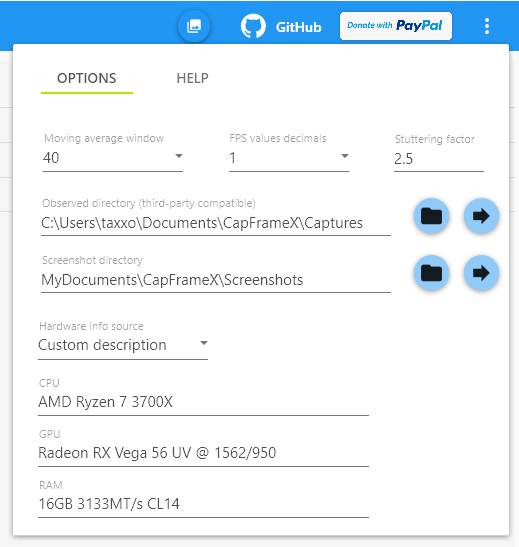
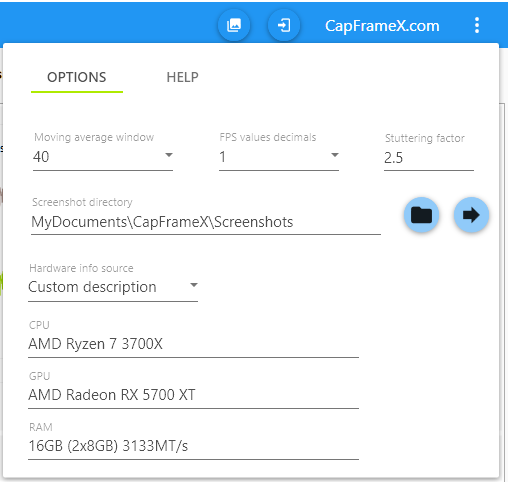
edited README and images

diff --git a/README.md b/README.md
@@ -28,12 +28,15 @@ Download link: https://github.com/DevTechProfile/CapFrameX/releases
 ![Screenshot](Images/06_comparison_bar.png)
 ![Screenshot](Images/07_comparison_graph.png)
 
-# Synchronization (G-Sync, FreeSync, Input lag)
+# Synchronization (Input lag)
 ![Screenshot](Images/09_sync_DT.png)
 ![Screenshot](Images/10_sync_IL.png)
 
 # Report table (Excel)
 ![Screenshot](Images/08_report.png)
+
+# Cloud
+![Screenshot](Images/11_cloud.png)
 
 # Instruction manual
 Learn how to use CapFrameX.
@@ -44,26 +47,32 @@ This list is always located at the left section, regardless of the view you're c
 It constantly observes the output directory so every capture will show up here as soon as the capture has finished.
 This also includes every OCAT or PresentMon capture you put into that directory.
 
-At the bottom of that list you can see and change the CPU, GPU and RAM description and add a custom comment to every capture.
-Also you can edit the game name, since the process name is used as default. This gets saved in a textfile that is being compared with a list we update with every new version of CapFrameX to add new games that aren't already on your list. 
+Changing directories:
+To change the directory, use the expander on the left where you can select your main folder and get a tree view of all subfolders within that main folder.
+Throgh the right click context menu you can create or delete folders directly in the tree view and also open any selected folder in explorer.
+
+Changing record info:
+At the bottom of the record list you can see and change the CPU, GPU and RAM description and add a custom comment to every capture.
+Also you can edit the game name, since the process name is used as default. 
+This gets saved in a process list file that is being compared with a list we update on every new version of CapFrameX to add new games that aren't already on your list. 
 
 ## Global Navigation Bar
-Located at the top
-Contains all the different views, a screenshot button, a direct link to the CX github page and an options menu. 
+Located at the top  
+Contains all the different views, a screenshot button, a login button(for additional cloud services), a direct link to the CX website and an options menu. 
 The screenshot button takes a screenshot of the current view excluding the record list.
 
 ## Options
+![Screenshot](Images/01_global_options.png)
 * Moving average window size = The number of frames that are used for the average line in the frametime chart.(Analysis View)
-* Stuttering factor = The factor a frametime has to be above average to be counted as stutter.(Analysis View)
-* Observed directory = The directory in which your captures are saved and also where you can put your OCAT/PresentMon captures.
 * FPS values rounding digits = The number of decimals for the FPS values
+* Stuttering factor = The factor a frametime has to be above average to be counted as stutter.(Analysis View)
 * Screenshot directory = The directory in which your screenshots are saved.
 * Hardware info source = What will be written into the capture file as your CPU, GPU and RAM config.  
   Automatic detection: What's delivered by the system  
   Custom description: What you write into the text boxes below  
 
 ## Capture view
-Here you can set your capture hotkey, the capture time(0=unlimited) and the response sounds.  
+Here you can set your capture hotkey, the capture time(0=unlimited), choose if and how precise you want to log sensor data(like CPU/GPU load and power) and set the hotkey response sounds.  
 An info text always informs you what's going on with the capture service and also tells you what to do in certain situations.
 For more detailed information about the capture events, you can take a look into the infobox which can be expanded from the top.
 
@@ -72,37 +81,42 @@ The process you want to capture has to be present in the "Running processes" lis
 
 For the easiest way of just getting into a game and pressing the hotkey to start a capture, this list may only contain one single process, otherwise the service won't know which process you want captured.
 If you have more than one process detected, you can still select the one you want and capturing will work just fine.
-However you wouldn't want to tab out of your game to do this. This is where the ignore list comes into play.
+However you wouldn't want to tab out of your game to do this. This is where our ignore list comes into play.
 
-With the arrow buttons you can add or remove any process from the ignore list, the ideal scenario is a completely empty running processes list at the start of CapFrameX.
+With the buttons below the two lists you can add or remove any process from the ignore list, the ideal scenario is a completely empty running processes list at the start of CapFrameX.
 With this, you can just start your game and since it'll be the only process in the list, just push the hotkey.
 
-The ignore list already includes many of the most common processes and, just like the list for the game names, gets updated with our ignore list with every new Version of CapFrameX.
-
-## Analysis View
-This is where you can analyse the captures you made one by one.
-
-For the graphs you can choose between frametime graphs, FPS graphs and L-shapes.  
-Below that you have your performance parameters like min, max, avg and percentiles on the left.  
-On the right you have two tabs, the first one is a pie chart which shows the amount of time you had stuttering (frametimes above 2.5x average(default)), the second one is a diagramm where you can see how many frames were below or above specific FPS thresholds.  
-At the bottom is a toolbar where you can change the performance parameters, remove unusual outliers from the graphs and activate a range slider.  
-On the very right of the page, there is also a "System info" expander which shows all the HW and SW information available for the selected benchmark.
+The ignore list entries are drawn from the same process list that contains your game names, which gets updated with our own list on every new Version of CapFrameX.
 
 ## Overlay view
 Contains the settings for the items displayed in the OSD aswell as the settings for a run history and the aggregation function.  
 
 Left side  
 Overlay items list where you can set the items you want to see in the OSD and change their order by Drag&Drop. Items with the same group name will be displayed within a single line.
-Overlay hotkey to show or hide CX items in OSD. This doesn't hide RTSS completely like the Afterburner hotkey does. If you have AB or any other App that uses RTSS running together with CX, only CX items will disappear.  
-
+Three profiles to save different overlay configurations.
+Overlay hotkey to show or hide CX items in OSD. This doesn't hide RTSS completely like the Afterburner hotkey does. If you have AB or any other App that uses RTSS running together with CX, only CX items will disappear.
 Right side  
-Run history to set a number of runs for which you get a simple analysis directly in the OSD. If the history is full, any additional run will replace the oldest one.  
+Run history to set a number of runs for which you get a simple analysis directly in the OSD. If the history is full, any additional run will replace the oldest one.    
 Aggregation to combine the runs in the history to a single record file once the history is full, while marking outliers within the history.  
 This doesn't take the calculated performance parameters of each record file and calculates an average out of them. It takes the raw frametimes of each record file and puts them into a new file, calculating every parameter based on that set of frametimes.  
-
-Aggregation outlier handling: A full history is checked for outliers using the median of a selectable metric and an also selectable percentage value. From there you can choose between two modes:  
-	"Mark & use": Outliers are marked, but all runs will be used for the aggregation.  
+Aggregation outlier handling: A full history is checked for outliers using the median of a selectable metric and an also selectable percentage value.
+	"Mark & use": Outliers are marked, but all runs will be used for the aggregation.
 	"Mark & replace": If outliers exist, you have to do additional runs to replace them. Aggregation triggers when you have a full history without outliers. 
+
+## Analysis view
+This is where you can analyse the captures you made one by one.
+
+For the graphs you can choose between frametime graphs, FPS graphs and L-shapes.
+Below that you have your performance parameters like min, max, avg and percentiles on the left.  
+On the right you have three tabs, the first one is a pie chart which shows the amount of time you had stuttering (frametimes above 2.5x average(default)), the second one is a diagramm where you can see how many frames were below or above specific FPS thresholds.
+If you chose to log sensor data for a record, two additional options are enabled: You can see the min, avg and max values of various sensors over the course of the benchmark as well as adding additional graphs to show you CPU and GPU load directly in the frametime chart.  
+At the bottom is a toolbar where you can change the performance parameters, toggle the additional sensor data graphs, remove unusual outliers from the graphs and activate a range slider.
+On the very right of the page, there is also a "System info" expander which shows all the HW and SW information available for the selected benchmark.
+
+##Aggregation view
+Here you can manually aggregate records that were already saved.
+Add them to the list and set the metrics you want to be displayed as well as the outlier handling options.
+Outliers will be marked red and you can choose to unclude or exclude them for the aggregation. On aggregation you'll see a simple result line and a new record file is created containing all the frametime data of the aggregated records.
 
 ## Comparison View
 Here you can compare multiple records.  
@@ -110,9 +124,8 @@ With a double-click from the record list you can add the captures to the compari
 
 The first tab shows you the records as bar charts.  
 If you compare records from just a single game, this game is set as a title above the diagramm. If you compare records from multiple games, the names are labeled on the bars.
-In addition you have an adjustable context for each record.  
+In addition you have an adjustable context for each record.
 At the bottom is a toolbar where you can change the sorting and adjust the displayed metrics aswell as the context.  
-
 The "Grouping" toggle switches between two sorting modes:  
 off-> all records are sorted by FPS  
 on-> records are sorted by game, then by FPS  
@@ -142,17 +155,29 @@ This manual is also available through the context menu.
 This is a simple view where you can add your records to see all the relevant parameters all at once. You can also just copy them with a right-click to add them into any other programm. This is also possible for the graphs and performance parameters in the single record view.
 
 ## Synchronization view
-This view shows you the quality of your synchronization methods like FreeSync or G-Sync as well as an approximated input lag analysis. 
+This view shows you an approximated input lag analysis as well as some other synchronization details. 
 
-Tab "Display changed times" 
-If sync methods are working properly, the lines for "frametimes" and "Display changed times" should align pretty well, this means your monitor works at the adaptive refresh rate of your GPU.  
-Below the Graph you can see two percentage values. The first one shows the correlation of frame- and display time, the second one shows the amount of frames within valid sync range(that you can enter next to it).  
-At the bottom you can see the distribution of the refresh times and beside it another pie chart which shows the number of dropped frames.  
+Tab "Approximated input lag"
+Using various data from PresentMon, we can give a fairly accurate approximation on the input lag. Note, that this doesn't include the additional latency from your mouse/keyboard or your monitor.
+For that we've included an offset that you can set yourself depending on your hardware.
+This input lag is shown in the graph and in the distribution below as well as a small bar chart for the upper and lower bounds as well as the expected input lag. 
 
-Tab "Approximated input lag"  
-Using various data from PresentMon, we can give a fairly accurate approximation on the input lag.  
-Note, that this doesn't include the additional latency from your mouse/keyboard or your monitor. For that we've included a box where you can type in an offset based on your hardware. We've chosen 10ms as the default.  
-This input lag is shown in the graph and in the distribution below as well as a small bar chart for the average and pecentile values.  
+Tab "Until displayed times" 
+The chart shows the times when a frame was successfully sent to the monitor and being displayed.
+Below the Graph you can see the amount of frames within valid sync range of your monitor(that you can enter next to it).  
+At the bottom you can see the distribution of the until displayed times and beside it another pie chart which shows the number of dropped frames.
+
+## Cloud view
+In this view you can upload an download records to easily share them with others.
+
+To upload records, add them to the upload list and click the upload button. Once the upload is complete, you'll get an ID that others can use to download your records in the download section below.
+To download records, just add the ID and click the download button.
+
+If you log in before the uploads, you can see all your uploads and IDs on capframex.com. 
+The optional description next to the upload button is to name your upload to easily find them on the website. It doesn't have any effect if you're not logged in.
+
+If you activated the proces list options on the right, new game names you add and new processes you ignore can be automatically added to our online list and your own list can be synced with that online list so that you always get the latest entries.
+This doesn't affect any processes you already have on your list. If our online list contains the same process as yours but with a different game name, your entry will not be changed. The same goes for the ignored status of a process.
 
 ## Export options (context menu)
 * Analysis: frametime values (f), frametime points (t, f(t)), FPS values, quantiles
@@ -161,6 +186,7 @@ This input lag is shown in the graph and in the distribution below as well as a 
 
 # Requirements
 * .NET 4.7.2
+* Microsoft Visual C++ Redistributable Package
 
 # Build requirements
 * MS Visual Studio 2019 only (Community Edition)
@@ -169,6 +195,6 @@ This input lag is shown in the graph and in the distribution below as well as a 
 * WiX Toolset and VS Extension: http://wixtoolset.org/releases/
 
 # Dev roadmap
-* logging CPU and GPU usage to make them available as additional graphs
+* Enhancements (new RTSS overlay features, second comparison context)
 
 
